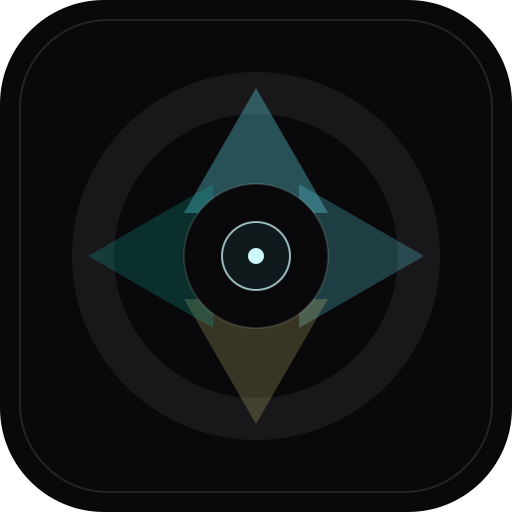
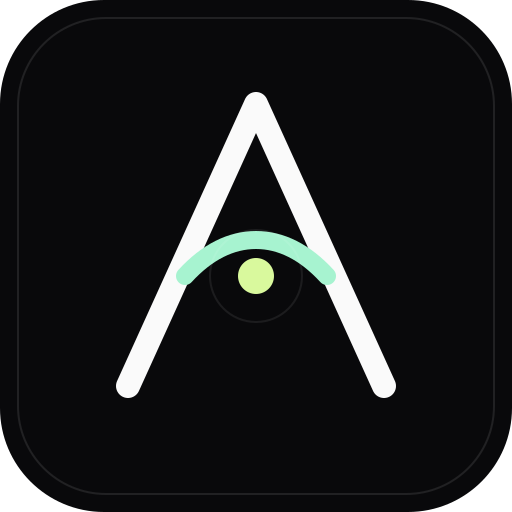
refactor: update brand assets and SVG graphics for improved visual consistency; enhance descriptions and README documentation for clarity

diff --git a/apps/web/src/components/brand.tsx b/apps/web/src/components/brand.tsx
@@ -1,24 +1,37 @@
-import Image from "next/image";
 import Link from "next/link";
 
 export function BrandMark() {
   return (
     <Link href="/" className="flex items-center gap-3" aria-label="Aperture home">
-      <span className="relative size-10 shrink-0 overflow-hidden rounded-[0.95rem] bg-zinc-950 shadow-[inset_0_1px_0_rgba(255,255,255,0.12),0_14px_38px_rgba(0,0,0,0.24)] ring-1 ring-white/10">
-        <Image
-          src="/icon.png"
-          alt=""
-          fill
-          priority
-          sizes="40px"
-          className="object-cover"
-        />
+      <span className="grid size-9 shrink-0 place-items-center rounded-[0.7rem] border border-white/10 bg-zinc-950/80 text-zinc-50 shadow-[inset_0_1px_0_rgba(255,255,255,0.08),0_16px_40px_rgba(0,0,0,0.2)]">
+        <svg
+          aria-hidden="true"
+          className="size-6"
+          viewBox="0 0 32 32"
+          fill="none"
+          xmlns="http://www.w3.org/2000/svg"
+        >
+          <path
+            d="M7.8 24.5L16 6.8L24.2 24.5"
+            stroke="currentColor"
+            strokeWidth="1.75"
+            strokeLinecap="round"
+            strokeLinejoin="round"
+          />
+          <path
+            d="M11.5 17.4C12.9 15.9 14.4 15.2 16 15.2C17.6 15.2 19.1 15.9 20.5 17.4"
+            stroke="#A7F3D0"
+            strokeWidth="1.35"
+            strokeLinecap="round"
+          />
+          <circle cx="16" cy="17.4" r="1.35" fill="#D9F99D" />
+        </svg>
       </span>
-      <span className="leading-none">
-        <span className="block text-sm font-light tracking-[-0.03em] text-white">
+      <span className="leading-tight">
+        <span className="block text-[0.95rem] font-medium tracking-normal text-white">
           Aperture
         </span>
-        <span className="block text-[0.68rem] font-light uppercase tracking-[0.24em] text-zinc-500">
+        <span className="block text-[0.68rem] font-normal tracking-normal text-zinc-500">
           Financial Intelligence
         </span>
       </span>

diff --git a/docs/BRAND_AND_MEDIA.md b/docs/BRAND_AND_MEDIA.md
@@ -10,9 +10,9 @@ Live marketing media remains a follow-on task because final source selection dep
 
 - Product name: Aperture Financial Intelligence.
 - Positioning: AI financial research and portfolio decision-support workspace.
-- Visual tone: dark metal, glass edge refraction, dense metrics, restrained cyan and amber state colors.
+- Visual tone: dark metal, glass edge refraction, dense metrics, restrained green and lime state colors.
 - Typography: Outfit for interface/display text and Geist Mono for tickers, prices, quotas, and timestamps.
-- Mark: aperture lens motif with a centered research focal point. The app renders the mark in `apps/web/src/components/brand.tsx`.
+- Mark: minimalist monoline A/lens motif with a centered research focal point. The app renders the mark in `apps/web/src/components/brand.tsx`.
 - Production-safe assets:
   - `apps/web/public/brand/aperture-mark.svg`
   - `apps/web/public/brand/aperture-social-card.svg`

diff --git a/apps/web/public/brand/README.md b/apps/web/public/brand/README.md
@@ -3,9 +3,9 @@
 Phase 8 local brand assets are production-safe vector assets and documented media direction. The app still renders the live navigation mark in `src/components/brand.tsx` so the wordmark stays text-based and accessible.
 
 Included assets:
-- `aperture-mark.svg`: vector aperture icon for docs, social previews, and non-app contexts.
+- `aperture-mark.svg`: minimalist vector A/lens icon for docs, social previews, and non-app contexts.
 - `aperture-social-card.svg`: dark social preview concept.
-- `../logo.png`: generated concept image retained as reference only, not the production wordmark.
+- `../logo.png`: PNG export of the production vector mark for legacy/static contexts.
 - `../../src/app/icon.png`: app icon route asset.
 - `../../src/app/opengraph-image.png`: Open Graph image route asset.
 
